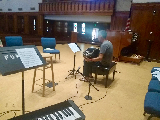
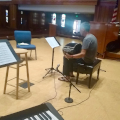
more photo editing for thumbnails

diff --git a/src/imageRefs.js b/src/imageRefs.js
@@ -25,7 +25,7 @@ import LibbyHelpingHandsGreenscreen from './images/BTSoriginals/LibbyHelpingHand
 // import JulieSlate105 from './images/BTSoriginals/JulieSlate105.png';
 import CodyJulieBottleCatGreenscreen from './images/BTSoriginals/CodyJulieBottleCatGreenscreen.png';
 import friendSlateLibbyWaiting from './images/BTSoriginals/friendSlateLibbyWaiting.png';
-import MiguelJulieGreenscreen from './images/BTSoriginals/friendSlateLibbyWaiting.png'
+import MiguelJulieGreenscreen from './images/BTSoriginals/MiguelJulieGreenscreen.png'
 
 import HearKittyADREmptyThumb from './images/BTSthumbs/HearKittyADREmpty-thumb.png';
 import ErskineBandoThumb from './images/BTSthumbs/ErskineBando-thumb.png';
@@ -41,7 +41,7 @@ import LibbyHelpingHandsGreenscreenThumb from './images/BTSthumbs/LibbyHelpingHa
 // import JulieSlate105 from './images/BTSthumbs/JulieSlate105-thumb.png';
 import CodyJulieBottleCatGreenscreenThumb from './images/BTSthumbs/CodyJulieBottleCatGreenscreen-thumb.png';
 import friendSlateLibbyWaitingThumb from './images/BTSthumbs/friendSlateLibbyWaiting-thumb.png';
-import MiguelJulieGreenscreenThumb from './images/BTSthumbs/friendSlateLibbyWaiting-thumb.png'
+import MiguelJulieGreenscreenThumb from './images/BTSthumbs/MiguelJulieGreenscreen-thumb.png'
 
 const imageRefs = {
   camp,
@@ -54,20 +54,20 @@ const imageRefs = {
   title100Grad10,
   hearBettyLogo,
   behindTheScenesPics: [
-    { id: uuid(), original: BradEditing, thumbnail: BradEditingThumb, description: 'Brad at work editing picture.'},
-    { id: uuid(), original: heyChief, thumbnail: heyChiefThumb, description: 'Willis (Fighting Guy) setting up with Julie for his fight with Cody'},
     { id: uuid(), original: LibbyHelpingHandsGreenscreen, thumbnail: LibbyHelpingHandsGreenscreenThumb, description: 'Pip (Libby) at Helping Hands.'},
-    { id: uuid(), original: CodyJulieBottleCatGreenscreen, thumbnail: CodyJulieBottleCatGreenscreenThumb, description: `Julie handing Wambli (Cody) his bottle of "hooch." (Roxy Blossom in the background didn't make the cut.)`},
     { id: uuid(), original: friendSlateLibbyWaiting, thumbnail: friendSlateLibbyWaitingThumb, description: 'Michele helping keep the photos organized'},
+    { id: uuid(), original: CodyJulieBottleCatGreenscreen, thumbnail: CodyJulieBottleCatGreenscreenThumb, description: `Julie handing Wambli (Cody) his bottle of "hooch." (Roxy Blossom in the background didn't make the cut.)`},
     { id: uuid(), original: MiguelJulieGreenscreen, thumbnail: MiguelJulieGreenscreenThumb, description: 'Julie with Pablo (Miguel)'},
-    { id: uuid(), original: HearKittyADREmpty, thumbnail: HearKittyADREmptyThumb, description: 'Hear Kitty, where we recorded most of the voices'},
+    { id: uuid(), original: heyChief, thumbnail: heyChiefThumb, description: 'Willis (Fighting Guy) setting up with Julie for his fight with Cody'},
     { id: uuid(), original: ErskineBando, thumbnail: ErskineBandoThumb, description: 'Erskine playing bandoneon during our recording session with Q Tango'}, 
     { id: uuid(), original: TorJulieRecordingQTango, thumbnail: TorJulieRecordingQTangoThumb, description: 'Tor & Julie during the Q Tango recording session'}, 
     { id: uuid(), original: ElDiaSheetMusic, thumbnail: ElDiaSheetMusicThumb, description: 'sheet music for a song heard frequently'}, 
     { id: uuid(), original: tangoSheetMusic, thumbnail: tangoSheetMusicThumb, description: 'more sheet music'}, 
     { id: uuid(), original: QTangoRecording, thumbnail: QTangoRecordingThumb, description: 'The whole Q Tango ensemble'}, 
+    { id: uuid(), original: HearKittyADREmpty, thumbnail: HearKittyADREmptyThumb, description: 'Hear Kitty, where we recorded most of the voices'},
     { id: uuid(), original: RumiRecording, thumbnail: RumiRecordingThumb, description: 'Rumi recording as Laura'}, 
     { id: uuid(), original: I25PondTurtles, thumbnail: I25PondTurtlesThumb, description: 'Waiting for recording at Hear Kitty can be quite relaxing'}, 
+    { id: uuid(), original: BradEditing, thumbnail: BradEditingThumb, description: 'Brad at work editing picture.'},
   ],
 }
 
